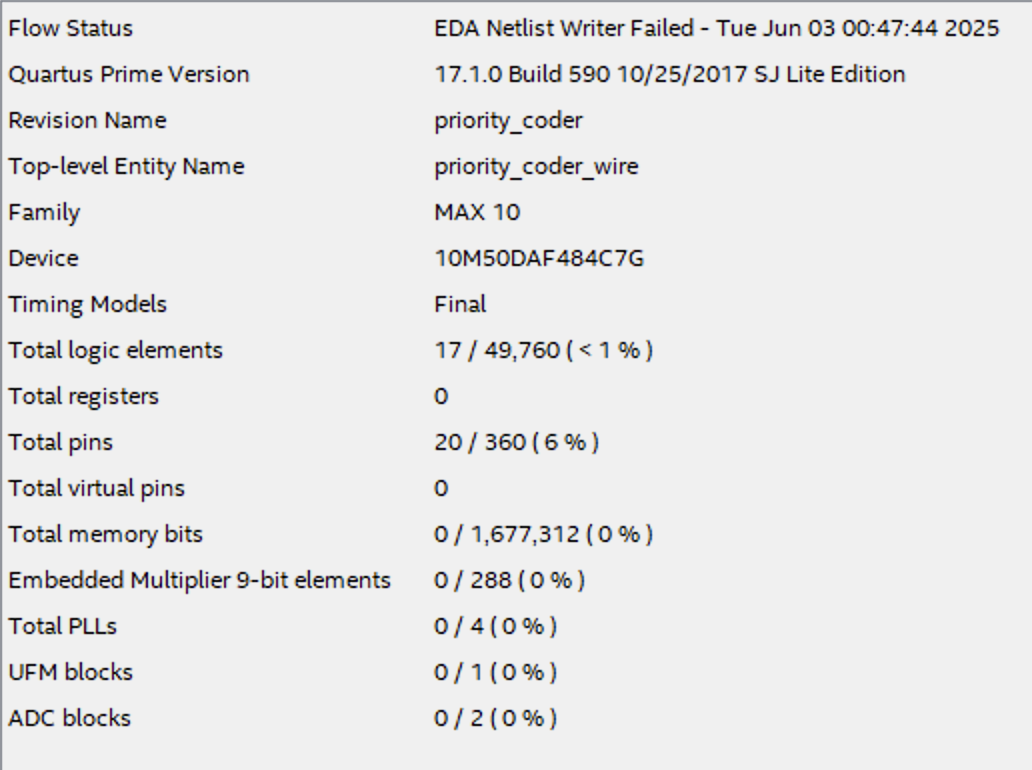
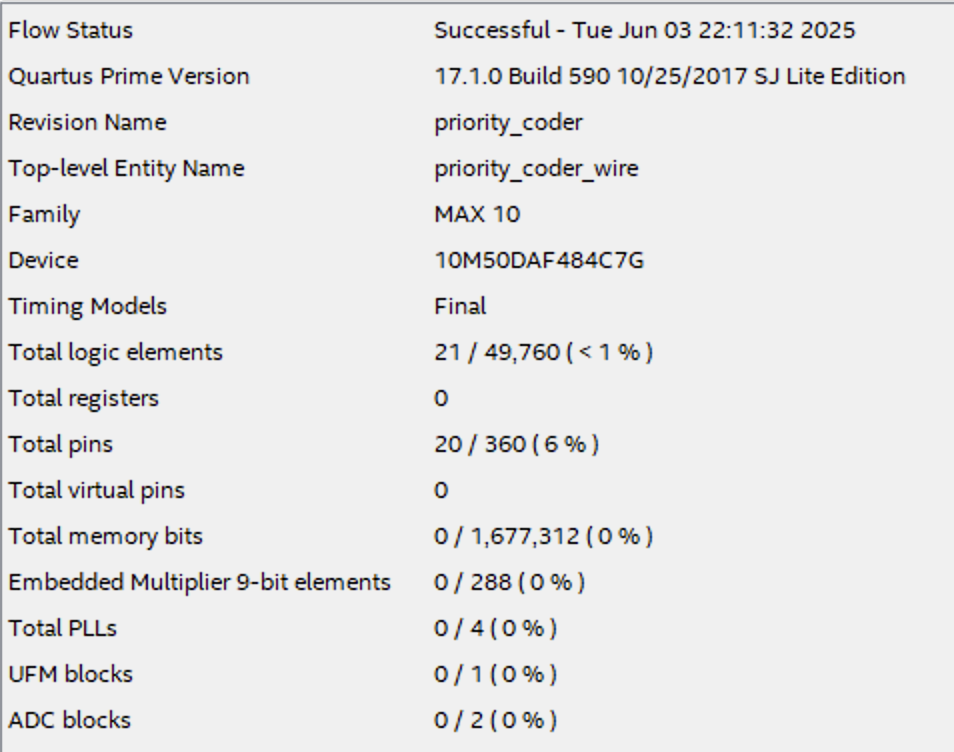
update RTL pic

Changed region(s): [[0.0, 0.0, 1.0, 0.9787], [0.3952, 0.5199, 0.6384, 0.6423]]

diff --git a/README.md b/README.md
@@ -46,7 +46,7 @@
 
 В ходе компиляции проекта была получена информация по потребляемым ресурсам. 
 
-Как видно на рисунке 2, было использовано 17 ЛЭ и 20 пинов. Можно сделать вывод, что данная схема эффективно использует ресурсы, поскольку кол-во логических элементов сходится с кол-вом описываемых состояний  (17 = 16 (one-hot) + 1 (пустой)) и кол-во пинов сходится с кол-вом портов ввода/вывода модуля (20 = 16 (DATA_W) + 4 (POS_W)).
+Как видно на рисунке 2, для реализации модуля priority_coder_wire было использовано 21 логический элемент и 20 пинов. Можно сделать вывод, что данная схема эффективно использует ресурсы, поскольку количество логических элементов близко к ожидаемому для реализации приоритетного кодировщика на 16 входов (21 ЛЭ достаточно для организации каскада сравнений и мультиплексоров). Количество пинов также соответствует количеству портов ввода-вывода модуля (20 = 16 бит входных данных (DATA_W) + 4 бита позиции (POS_W)). При этом не используются регистры и встроенная память, что характерно для чисто “проводной” (wire-based) реализации без хранения состояния.
 
 ![](/priority_coder/docs/FS.png)
 
@@ -90,7 +90,9 @@
 
 В ходе компиляции проекта была получена информация по потребляемым ресурсам. 
 
-Как видно на рисунке 2, для реализации модуля fifo было использовано 123 логических элементов и 26 пинов. Можно сделать вывод, что схема эффективно использует ресурсы, так как число логических элементов соответствует ожидаемому объёму регистрационной логики для хранения данных и реализации управляющих счетчиков (6×10 бит памяти FIFO, указатели и счётчик заполнения). Количество пинов также сопоставимо с количеством внешних портов модуля: это входы данных (10 бит), выходные данные (10 бит), управляющие сигналы (push, pop, clock, rst_n, full, val) и дополнительные служебные сигналы. Встроенная память и специализированные блоки FPGA не используются, что подтверждает компактность и простоту конструкции при малой глубине FIFO.
+Как видно на рисунке 2, для реализации модуля fifo было использовано 123 логических элементов и 26 пинов. Можно сделать вывод, что схема эффективно использует ресурсы, так как число логических элементов соответствует ожидаемому объёму регистрационной логики для хранения данных и реализации управляющих счетчиков (6×10 бит памяти FIFO, указатели и счётчик заполнения). 
+
+Количество пинов также сопоставимо с количеством внешних портов модуля: это входы данных (10 бит), выходные данные (10 бит), управляющие сигналы (push, pop, clock, rst_n, full, val) и дополнительные служебные сигналы.
 
 ![](/fifo/docs/FS.png)
 
